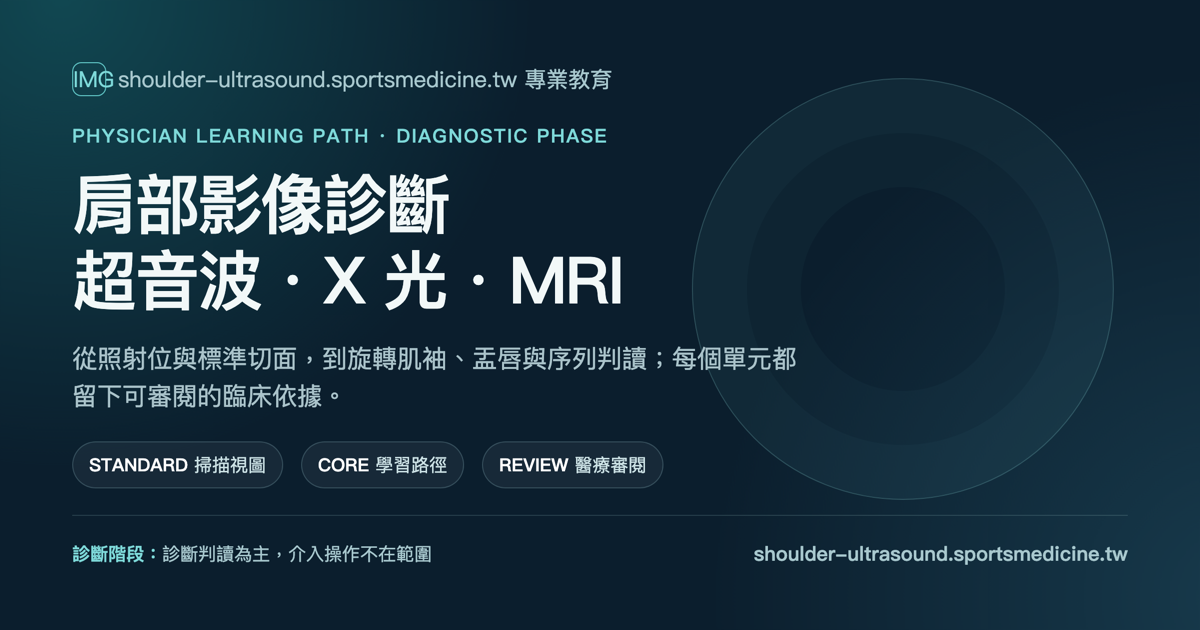
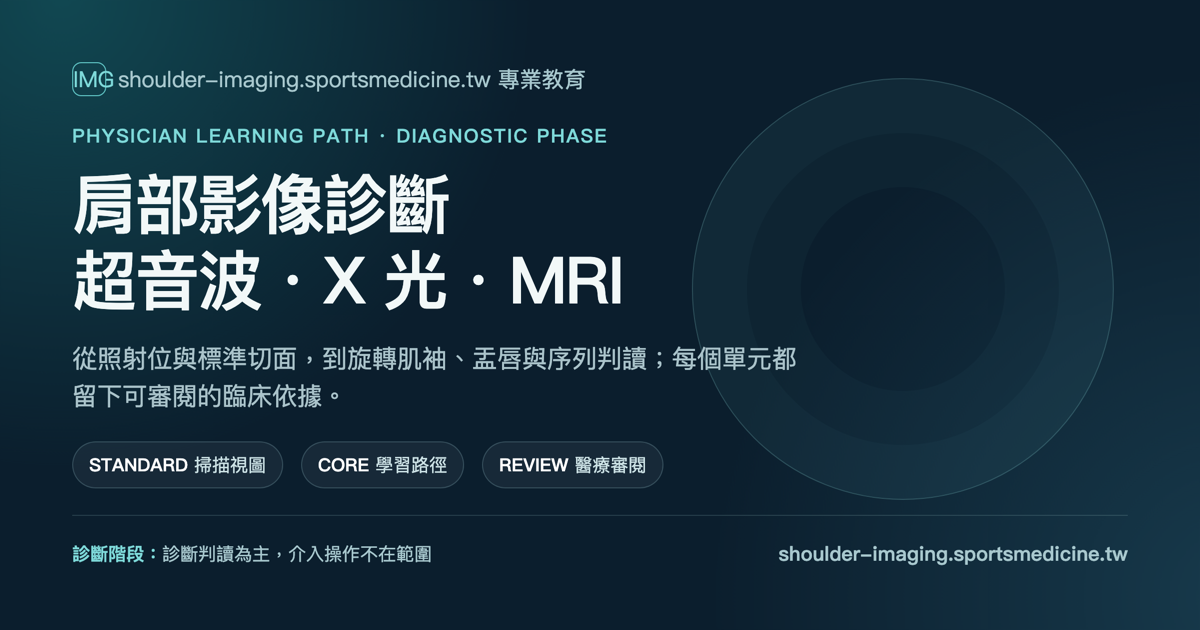
feat(domain): 正式網址改為 shoulder-imaging.sportsmedicine.tw，舊網域保留轉址
配合 repo 改名為 `shoulder-imaging-course`，網域也對齊 `<部位>-imaging` 慣例
（與膝部站 `knee-imaging.sportsmedicine.tw` 一致）。

- `site.url` 改為 `https://shoulder-imaging.sportsmedicine.tw`；
  canonical、og:url、JSON-LD 與 sitemap 都跟著更新（由 build 自動注入）
- `src/web/og.html` 的網址文字更新，og.png 已重產
- **新增 `src/web/_redirects`**：舊網域 301 轉到新網域。
  舊網域在改名前已被搜尋引擎索引（2026-08-28 才剛開放索引），直接拔掉會留下死連結，
  因此兩個自訂網域都保留掛在同一個 Pages 專案上。
  註：CF Pages 對「整個網域轉址」的支援待線上實測；即使不生效，
  canonical 已指向新網址，搜尋引擎仍會把權重收斂過去
- README 全面改寫：舊版還寫著「肩部超音波診斷課程」「第一階段」「內容狀態 medical-review」，
  與現況（三模態、34 單元全數 approved、已開索引）完全脫節。
  新版含九章結構表、「這個 repo 有什麼值得參考」（治理機制）、
  以及「策展彙編不是醫療背書」的聲明與授權中的審閱紀錄不隨授權轉移條款
- `docs/DEPLOYMENT.md` 記錄舊網域不可拔除的原因
- `docs/BUILD_PLAN.md` 加註為歷史文件（首輪 8 章 24 單元時期）

驗證：make build/jscheck/audit/test/lint 五項 exit 0；
dist 的 canonical／og:url／sitemap 都是新網址；`_redirects` 有被複製到 dist。

Changed region(s): [[0.185, 0.0905, 0.5242, 0.1508], [0.6167, 0.8444, 0.7708, 0.9048]]

diff --git a/src/web/og.html b/src/web/og.html
@@ -55,7 +55,7 @@
     </style>
   </head>
   <body>
-    <div class="brand"><span class="mark">IMG</span>shoulder-ultrasound.sportsmedicine.tw 專業教育</div>
+    <div class="brand"><span class="mark">IMG</span>shoulder-imaging.sportsmedicine.tw 專業教育</div>
     <main class="main">
       <div class="eyebrow">PHYSICIAN LEARNING PATH · DIAGNOSTIC PHASE</div>
       <h1>肩部影像診斷<br />超音波・X 光・MRI</h1>
@@ -68,7 +68,7 @@
     </div>
     <footer class="foot">
       <span class="scope"><b>診斷階段：</b>診斷判讀為主，介入操作不在範圍</span>
-      <span class="url">shoulder-ultrasound.sportsmedicine.tw</span>
+      <span class="url">shoulder-imaging.sportsmedicine.tw</span>
     </footer>
   </body>
 </html>

diff --git a/README.md b/README.md
@@ -1,23 +1,65 @@
-# 肩部超音波診斷課程
+# 肩部影像診斷課程
 
-以醫師為主要學員的繁體中文肩部肌肉骨骼超音波課程。第一階段聚焦診斷掃描：儀器最佳化、標準切面、正常解剖、動態檢查、常見病理與報告品質；介入注射延後處理。
+以醫師為主要學員的繁體中文肩部影像判讀課程，涵蓋 **X 光、肌肉骨骼超音波與 MRI** 三種模態。
+全課為診斷判讀，不含注射、穿刺或其他影像導引介入操作的教學。
 
-正式站預定網址：<https://shoulder-ultrasound.sportsmedicine.tw>
+正式站：<https://shoulder-imaging.sportsmedicine.tw>
 
-> 目前內容狀態為 `medical-review`。網站可供版型與課綱審閱，但不代表醫療內容已核准，也不取代實體 hands-on training、合格督導或機構 credentialing。審閱範圍與剩餘簽核見 [醫療內容審閱紀錄](docs/MEDICAL_REVIEW.md)。
+**9 章 · 34 個教學單元 · 34 支精選公開影片 · 16 小時 6 分**
 
-## 首輪範圍
+> **這是策展彙編，不是醫療背書。** 影片來自各原始頻道，著作權與臨床內容責任屬原發布單位與講者。
+> 策展人負責的是篩選、範圍框限、來源與講者資格查證、文獻對應與課程編排。
+> 本課不是 credentialing，也不取代實體 hands-on training、合格督導或正式影像判讀報告。
 
-- 8 章、24 個教學單元、18 支精選公開影片
-- 5 支「核心必看」建立最短學習路徑，13 支「延伸學習」補充完整流程、病理與不同專家觀點
-- 近五年影片優先；具不可替代教學價值者可列為「經典例外」
-- 核心納入 Jon Jacobson、Marc Schmitz、SMUG，並保留 Prof. Carlo Martinoli 的兩部解剖示範
-- 以 ACR/AIUM、AIUM、ESSR、USMSIT/NMUSIT 與同儕審查文獻建立掃描框架
-- 每單元具備學習目標、必備視圖、操作重點、常見陷阱、評量與審閱狀態
+## 課程結構
 
-詳細資料見 [課程結構](docs/CURRICULUM.md)、[選片規則](docs/VIDEO_CURATION.md)、[版型設計](docs/DESIGN_SYSTEM.md) 與 [建置計畫](docs/BUILD_PLAN.md)。
+依 **X 光 → 超音波 → MRI** 三大主軸編排：
 
-Cloudflare Pages 採 GitHub integration，設定與醫療索引閘門見 [部署文件](docs/DEPLOYMENT.md)。
+| 章 | 主題 | 單元 |
+| --- | --- | ---: |
+| `XR1` | X 光：照射位選擇與系統性判讀 | 2 |
+| `XR2` | X 光：常見病理與判讀陷阱 | 2 |
+| `US1` | 超音波基礎：診斷範圍、安全與影像最佳化 | 6 |
+| `US2` | 超音波前側：標準流程、肱二頭肌與肩胛下肌 | 6 |
+| `US3` | 超音波上外側與後側：旋轉間隙、棘上肌與動態檢查 | 6 |
+| `US4` | 超音波判讀、報告與品質 | 6 |
+| `MR1` | MRI：序列邏輯與正常解剖 | 2 |
+| `MR2` | MRI：旋轉肌袖與證據邊界 | 2 |
+| `MR3` | MRI：盂唇、不穩定與常見陷阱 | 2 |
+
+每個單元具備學習目標、必備視圖、操作重點、常見陷阱、評量與審閱狀態。
+詳見 [課程結構](docs/CURRICULUM.md)。
+
+## 這個 repo 有什麼值得參考
+
+課程內容本身是策展成果，**真正可以借用的是治理機制**——如何在大量引用第三方影片的前提下，
+維持可追溯、可稽核、且不誇大的醫學教育內容。
+
+**審閱閘門**
+`draft → medical-review → approved`。只有 `approved` 的內容會進入 `course.json`。
+單元、逐段筆記、知識檢核與名詞表各有獨立狀態，新增內容一律從 `draft` 開始，
+不影響既有審閱。`reviewer_role` 是「課程策展人」而非醫療專科職稱——
+**審閱確認的是範圍框限與來源資格，不是對第三方臨床內容的背書**。
+
+**影片可追溯性**
+每支影片有約 26 個 provenance 欄位：原始頻道、具名講者、**可驗證的第三方資格證據 URL**
+（大學／醫院 faculty 頁、學會講者頁、PubMed 作者頁）、來源權威層級、可嵌入與公開狀態、
+實查日期。缺欄位會被 `src/build/audit_medical.py` 擋下。
+
+**介入內容框限**
+課程是 `diagnostic-only`。影片若含介入段落，以 `intervention_start_timestamp` 與
+`diagnostic_segment_range` 切出可播範圍，逐段筆記也止於框限。
+框限由字幕關鍵字掃描（`tools/scan_intervention.py`）定位、再逐字核對前後文裁定——
+自動字幕會把肌腱 **insertion（止點）** 誤辨成 injection，直接信關鍵字會產生假警報。
+
+**文獻驗證**
+`reference_catalog` 的每一筆都以 PubMed eutils 實查過 PMID、標題與年份。
+`make verify` 會打真 API 重驗所有影片連結與文獻來源。
+
+**策展決策留痕**
+[`docs/VIDEO_CURATION.md`](docs/VIDEO_CURATION.md) 記錄每一輪策展的**拒絕清單與理由**、
+早於內容 cutoff 的破例理由、介入框限的裁定依據，以及被否決的建議。
+未來要回答「為什麼沒收這支」時，答案在那裡。
 
 ## 本機建置
 
@@ -25,28 +67,34 @@ Cloudflare Pages 採 GitHub integration，設定與醫療索引閘門見 [部署
 
 ```bash
 uv sync
-make check
-make serve
+make check      # lint + jscheck + test + build + audit
+make serve      # http://localhost:8899
+make verify     # 打真實 API 重驗影片連結與 PubMed 引用
 ```
 
-開啟 <http://localhost:8899>。若要驗證外部影片及文獻連結，另執行：
+`make audit` 執行框架稽核與醫療內容結構閘門。**通過只代表資料結構完整，不等於內容正確。**
 
-```bash
-make verify
-```
-
-`make audit` 會同時執行框架稽核與醫療內容結構閘門。通過只代表資料結構完整，不等於醫療核准。
+Cloudflare Pages 採 GitHub integration，設定與索引閘門見 [部署文件](docs/DEPLOYMENT.md)。
 
 ## 內容維護
 
-- `course/course.config.json`：網站、章節、配額、稽核與醫療範圍設定
-- `course/data/syllabus.json`：課綱、單元、參考來源與策展影片
-- `course/data/video-meta.json`：影片 ID、頻道、長度、觀看數及上架日期驗證中繼資料
-- `src/web/`：靜態前端
-- `src/build/`：建置、SEO、連結與醫療內容稽核
-
-審閱狀態採 `draft` → `medical-review` → `approved`。任何醫療內容變更都應回到 `medical-review`，不得只改畫面而保留既有核准狀態。
+| 路徑 | 內容 |
+| --- | --- |
+| `course/course.config.json` | 網站文案、章節、配額、稽核與醫療範圍設定 |
+| `course/data/syllabus.json` | 課綱、單元、參考文獻與策展影片 |
+| `course/data/{segments,questions,glossary}.json` | 逐段筆記、知識檢核、名詞表 |
+| `course/data/video-meta.json` | 影片實查中繼資料 |
+| `course/research/` | 策展原始輸出與字幕訛誤對照表 |
+| `src/web/` | 靜態前端 |
+| `src/build/` | 建置、SEO、連結與醫療內容稽核 |
+| `tools/` | 策展工作腳本（實查、框限掃描、逐字稿裁切、字幕訛誤預篩） |
 
 ## 來源與授權
 
-本專案參考 [keanu77/online-course](https://github.com/keanu77/online-course) 的資料驅動靜態課程架構重新建置。程式碼採 MIT License；第三方影片、學會指引及論文不包含在此授權內。本站只儲存連結與書目中繼資料，影片由 YouTube 官方播放器提供，不重製或代管。
+參考 [keanu77/online-course](https://github.com/keanu77/online-course) 的資料驅動靜態課程架構重新建置。
+
+程式碼採 MIT License。**第三方影片、學會指引及論文不包含在此授權內**——
+本站只儲存連結與書目中繼資料，影片由 YouTube 官方播放器提供，不重製也不代管。
+
+審閱紀錄（`reviewed_by` / `reviewer_role` / `reviewed_at`）**不隨授權轉移**。
+fork 或改作時必須移除這些欄位，不得聲稱原策展人為改作內容背書。

diff --git a/docs/DEPLOYMENT.md b/docs/DEPLOYMENT.md
@@ -37,7 +37,12 @@
 
 先確認 `shoulder-ultrasound-course.pages.dev`（CF 專案名，非 repo 名）的 production deployment 正常，再到 Pages 專案的 Custom domains 加入：
 
-`shoulder-ultrasound.sportsmedicine.tw`
+`shoulder-imaging.sportsmedicine.tw`（2026-08-28 起的正式網址）
+
+**舊網域 `shoulder-ultrasound.sportsmedicine.tw` 仍掛在同一個 Pages 專案上，不要拔掉。**
+它在改名前已被搜尋引擎索引，直接移除會留下死連結。`src/web/_redirects` 有一條
+301 把舊網域轉到新網域；即使該規則不生效，HTML 的 `<link rel="canonical">` 也已指向
+新網址，搜尋引擎仍會把權重收斂過去。
 
 母網域已由 Cloudflare 管理時，應由 Pages 的 Custom domains 流程自動建立 DNS；不要先手動建立 CNAME，以免自訂網域驗證或回源設定不一致。
 

diff --git a/docs/BUILD_PLAN.md b/docs/BUILD_PLAN.md
@@ -1,3 +1,6 @@
+> **歷史文件。** 本計畫寫於首輪建置（8 章 24 單元 18 片、純超音波）時期，
+> 網域與規模都已改變。現況見 `README.md` 與 `docs/CURRICULUM.md`。
+
 # 建置與上線計畫
 
 ## 成功條件
